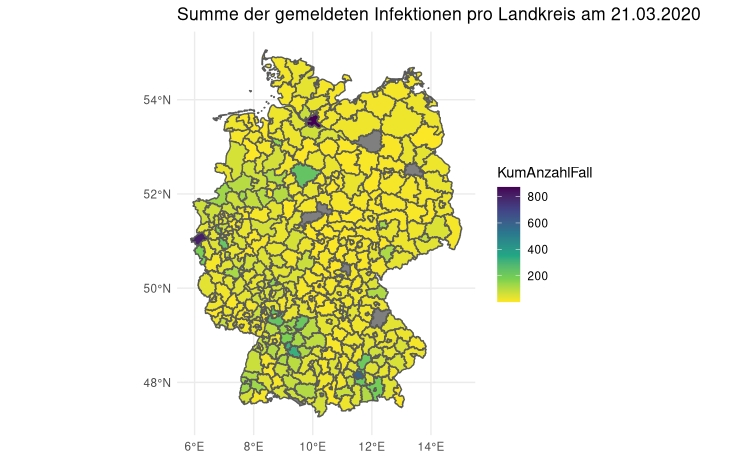
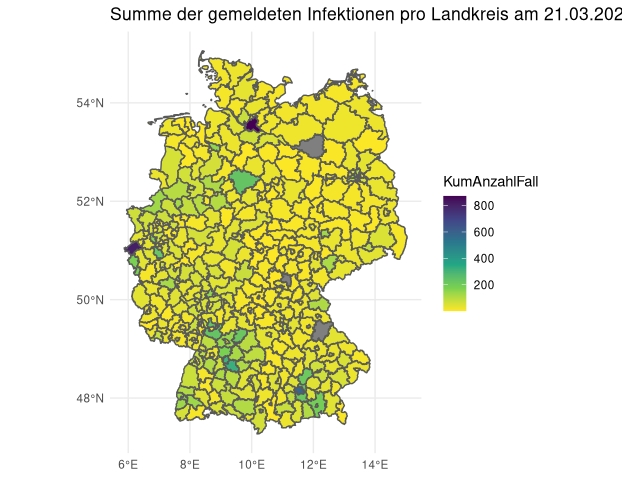
map plot now with correct shape file

diff --git a/README.md b/README.md
@@ -223,16 +223,16 @@ rki <- get_RKI_timeseries()
 shape_zip <- tempfile()
 unzip_dir <- file.path(tempdir(), "gershape")
 download.file(
-  "https://public.opendatasoft.com/explore/dataset/landkreise-in-germany/download/?format=shp&timezone=Europe/Berlin&lang=en",
+  "https://opendata.arcgis.com/datasets/917fc37a709542548cc3be077a786c17_0.zip",
   destfile = shape_zip
 )
 unzip(shape_zip, exdir = unzip_dir)
 
 # load the shapefile
-landkreis_sf <- sf::read_sf(file.path(unzip_dir, "landkreise-in-germany.shp")) %>% 
+landkreis_sf <- sf::read_sf(file.path(unzip_dir, "RKI_Corona_Landkreise.shp")) %>% 
   # prepare Landkreis ID for merging
   dplyr::mutate(
-    IdLandkreis = as.integer(cca_2)  
+    IdLandkreis = as.integer(RS)  
   )
 
 # download and filter rki data to 2020-03-21
